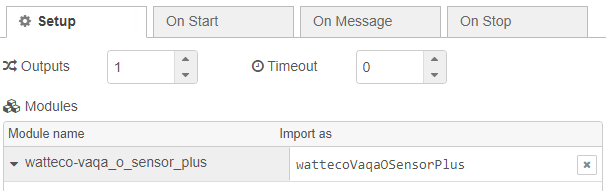
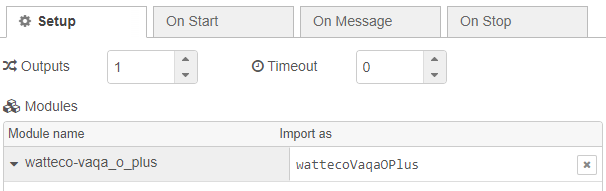
Replaced deprecated sensor in the NodeRED example by the supported one

Changed region(s): [[0.2079, 0.8115, 0.3564, 0.8901], [0.6238, 0.8377, 0.7723, 0.8901]]

diff --git a/distrib/README.md b/distrib/README.md
@@ -185,7 +185,7 @@ You'll find an example of decoding a base64 Vaqa'o+ batch frame below, you can d
         "type": "function",
         "z": "40642e89c9349958",
         "name": "decode",
-        "func": "// You must import the sensor decoder from npm via the configuration tab above\n// Don't forget to set \"functionExternalModules: true,\" in your \"settings.js\" file\n\nif (msg.payload.data && typeof msg.payload.data === 'string') {\n\n    const buffer = Buffer.from(msg.payload.data, 'base64'); // The frame arrives in base64 in msg.payload.data\n\n    var date = new Date(msg.payload.time); // The date is recuperated from msg.payload.time\n                                          // under any format and is transformed to ISO 8601\n    var inputObject = {\n        \"bytes\": buffer, // The frame in a bytes list\n        \"fPort\": 125,    // The port (Watteco always use 125)\n        \"recvTime\": date // The date in ISO 8601 format\n    }\n\n} else {\n    node.error(\"The message doesn't carry a Base64 frame\");\n    return null;\n}\n\nmsg.payload = wattecoVaqaOSensorPlus.driver.decodeUplink(inputObject);\nreturn msg;",
+        "func": "// You must import the sensor decoder from npm via the configuration tab above\n// Don't forget to set \"functionExternalModules: true,\" in your \"settings.js\" file\n\nif (msg.payload.data && typeof msg.payload.data === 'string') {\n\n    const buffer = Buffer.from(msg.payload.data, 'base64'); // The frame arrives in base64 in msg.payload.data\n\n    var date = new Date(msg.payload.time); // The date is recuperated from msg.payload.time\n                                          // under any format and is transformed to ISO 8601\n    var inputObject = {\n        \"bytes\": buffer, // The frame in a bytes list\n        \"fPort\": 125,    // The port (Watteco always use 125)\n        \"recvTime\": date // The date in ISO 8601 format\n    }\n\n} else {\n    node.error(\"The message doesn't carry a Base64 frame\");\n    return null;\n}\n\nmsg.payload = wattecoVaqaOPlus.driver.decodeUplink(inputObject);\nreturn msg;",
         "outputs": 1,
         "timeout": 0,
         "noerr": 0,
@@ -720,7 +720,7 @@ Vous trouverez un exemple de décodage d'une trame batch Vaqa'o+ en base64 ci-de
         "type": "function",
         "z": "1a97c11010c7ed96",
         "name": "décodage",
-        "func": "// Vous devez importer le décodeur du capteur depuis npm via l'onglet configuration ci-dessus\n// N'oubliez pas de définir \"functionExternalModules: true,\" dans votre fichier \"settings.js\"\n\nif (msg.payload.data && typeof msg.payload.data === 'string') {\n\n    const buffer = Buffer.from(msg.payload.data, 'base64'); // La trame arrive en base64 dans msg.payload.data\n\n    var date = new Date(msg.payload.time); // La date est récupérée depuis msg.payload.time\n                                          // sous n'importe quel format et est transformée en ISO 8601\n    var inputObject = {\n        \"bytes\": buffer, // La trame sous forme de liste de bytes\n        \"fPort\": 125,    // Le port (Watteco utilise toujours 125)\n        \"recvTime\": date // La date au format ISO 8601\n    }\n\n} else {\n    node.error(\"Le message ne contient pas de trame en Base64\");\n    return null;\n}\n\nmsg.payload = wattecoVaqaOSensorPlus.driver.decodeUplink(inputObject);\nreturn msg;",
+        "func": "// Vous devez importer le décodeur du capteur depuis npm via l'onglet configuration ci-dessus\n// N'oubliez pas de définir \"functionExternalModules: true,\" dans votre fichier \"settings.js\"\n\nif (msg.payload.data && typeof msg.payload.data === 'string') {\n\n    const buffer = Buffer.from(msg.payload.data, 'base64'); // La trame arrive en base64 dans msg.payload.data\n\n    var date = new Date(msg.payload.time); // La date est récupérée depuis msg.payload.time\n                                          // sous n'importe quel format et est transformée en ISO 8601\n    var inputObject = {\n        \"bytes\": buffer, // La trame sous forme de liste de bytes\n        \"fPort\": 125,    // Le port (Watteco utilise toujours 125)\n        \"recvTime\": date // La date au format ISO 8601\n    }\n\n} else {\n    node.error(\"Le message ne contient pas de trame en Base64\");\n    return null;\n}\n\nmsg.payload = wattecoVaqaOPlus.driver.decodeUplink(inputObject);\nreturn msg;",
         "outputs": 1,
         "timeout": 0,
         "noerr": 0,
